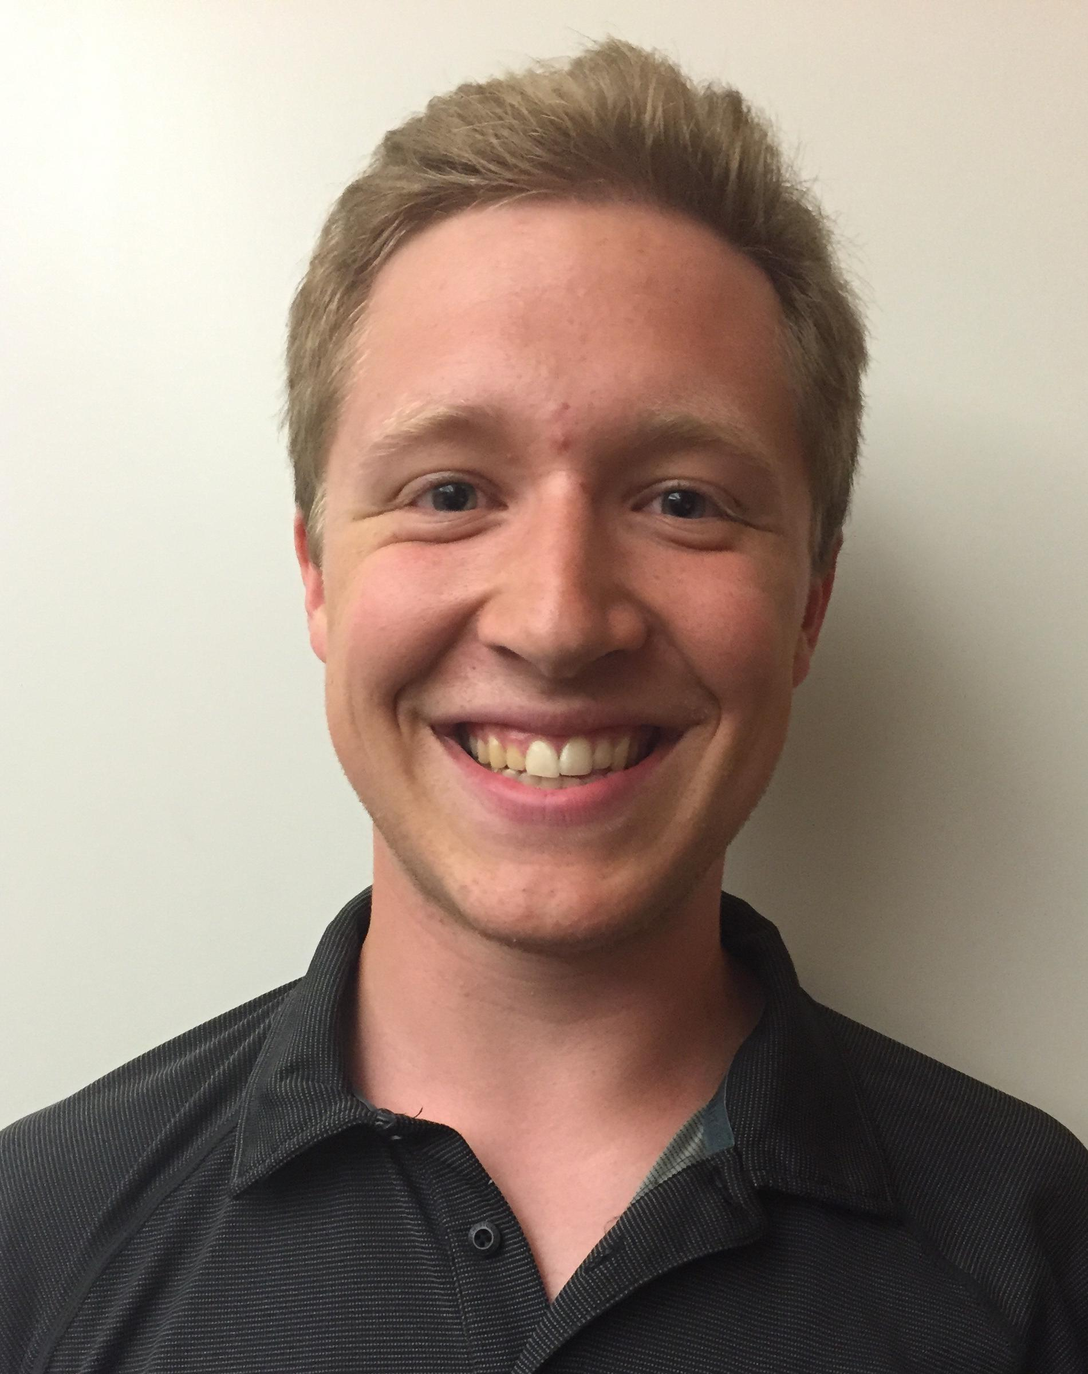
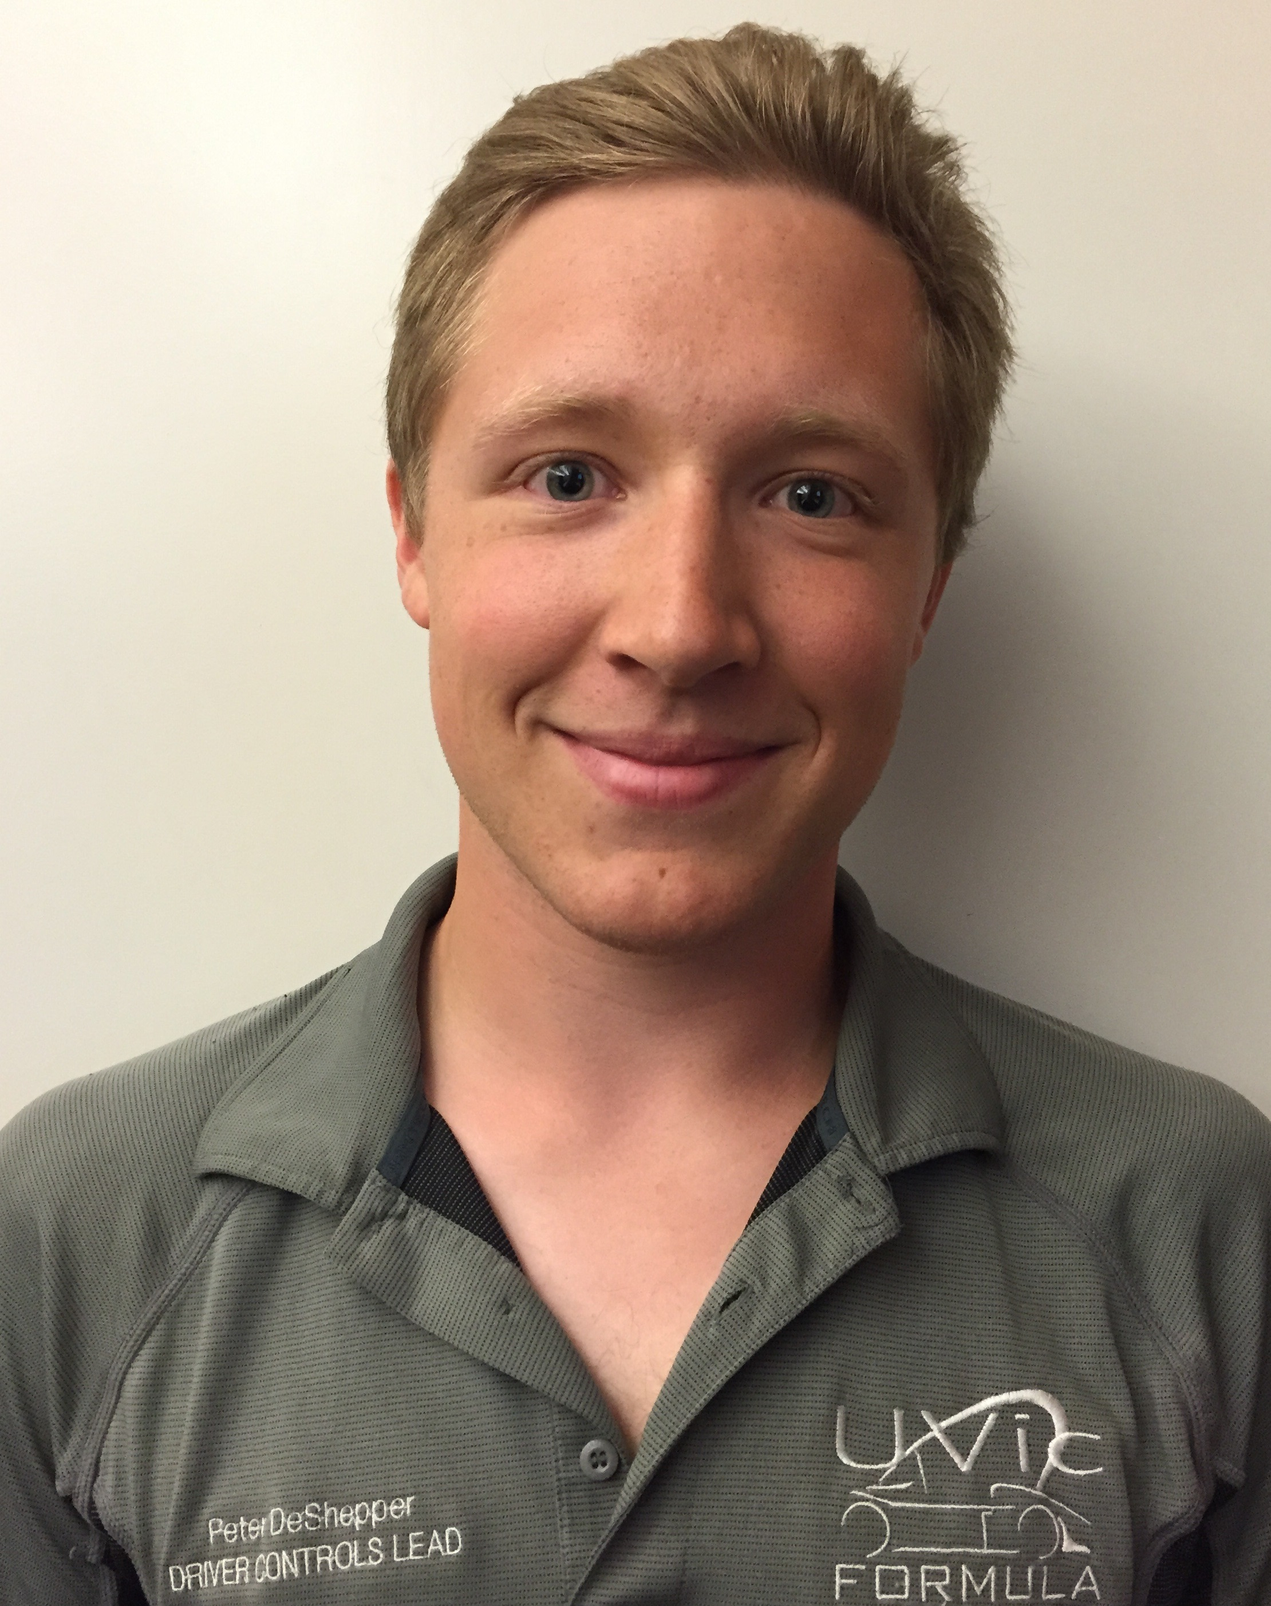
Update pages: Add new peter photo Add render page Add donate button

diff --git a/render/files/KeyShotVR.js b/render/files/KeyShotVR.js
@@ -1,0 +1,33 @@
+var q=!0,s=null,A=!1;
+window.keyshotVR=function(R,u,S,T,ia,C,ja,ka,la,ma,na,H,I,oa,pa,qa,U,ra,sa,ta,V,ua,va){function M(a,e,b){a.removeEventListener?a.removeEventListener(e,b,A):a.detachEvent&&(a.detachEvent("on"+e,a["e"+e+b]),a["e"+e+b]=s)}function m(a,e,b){a.addEventListener?a.addEventListener(e,b,A):a.attachEvent&&(a["e"+e+b]=b,a.attachEvent("on"+e,function(){a["e"+e+b]()}))}function W(){var a=A;-1!=navigator.platform.toString().indexOf("Win")&&-1!=navigator.appVersion.indexOf("MSIE")&&(a=q);return a}function wa(){var a=
+document.getElementById(R),b=a.requestFullScreen||a.webkitRequestFullScreen||a.mozRequestFullScreen||a.msRequestFullScreen;"undefined"!=typeof b&&b&&b.call(a)}function xa(h){a.ja=A;h.pointerId in a.F&&delete a.F[h.pointerId];X(h)}function ya(h){a.ja&&(a.F[h.pointerId]=[h.pageX,h.pageY],Y(h))}function za(h){a.ja=q;a.F[h.pointerId]=[h.pageX,h.pageY];Z(h)}function $(){a.o?(setTimeout(function(){a.t(A)},20),setTimeout(function(){a.t(q)},120)):(setTimeout(function(){a.t(q)},20),setTimeout(function(){a.t(A)},
+120))}function F(){var a={x:0,y:0},b=r;if(b.offsetParent){do a.x+=b.offsetLeft,a.y+=b.offsetTop;while(b=b.offsetParent)}return a}function aa(){var h=c.g;c.g=Math.min(v.width/w.width,v.height/w.height);h!=c.g&&a.Q(a.v()*h/c.g);p.setAttribute("width",w.width);a.o?(p.removeAttribute("height"),p.style[J]="scale("+c.m+")",p.style.width="100%",p.style.height="auto",r.style["background-color"]=""):(p.setAttribute("height",w.height),p.style[J]="translate("+-w.width/2+"px,"+-w.height/2+"px) scale("+c.g+") translate("+
+0.5*v.width/c.g+"px,"+0.5*v.height/c.g+"px) translate("+c.i+"px,"+c.j+"px) scale("+c.m+")",p.style["max-width"]="",p.style.width="",p.style.height="",r.style["background-color"]=a.backgroundColor)}function K(){a.Oa(a.k.offsetWidth,a.k.offsetHeight)}function ba(a,b){l.start.x=a;l.start.y=b;l.a.x=a;l.a.y=b;i.a.x=a;i.a.y=b}function ca(a,b){l.b.x=a-l.a.x;l.b.y=b-l.a.y;l.m.x=a;l.m.y=b;l.a.x=a;l.a.y=b}function E(h){h||(h=window.event);var b=0;h.keyCode?b=h.keyCode:h.which&&(b=h.which);1==b?j.d|=1:1<b&&
+(j.d|=2);a.ta(h);h.preventDefault?h.preventDefault():h.returnValue=A}function G(h){h||(h=window.event);var b=F();a.cursor.x=h.pageX-b.x+k.left;a.cursor.y=h.pageY-b.y+k.top;h.preventDefault?h.preventDefault():h.returnValue=A;0<j.d&&(1==j.d?ca(h.pageX,h.pageY):2==j.d?(h=a.cursor.y-D.start.y,b=a.v(),a.Q(c.s*Math.exp(h/200)),h=a.v(),c.i+=parseFloat(a.e*b-a.e*h),c.j+=parseFloat(a.f*b-a.f*h)):3==j.d&&(b=a.cursor.x-D.start.x,h=a.cursor.y-D.start.y,c.i+=parseFloat((b-c.l.x)/c.g),c.j+=parseFloat((h-c.l.y)/
+c.g),c.l.x=b,c.l.y=h))}function L(h){h||(h=window.event);var b=0;h.keyCode?b=h.keyCode:h.which&&(b=h.which);1==b?j.d&=-2:1<b&&(j.d&=-3);a.ta(h);h.preventDefault?h.preventDefault():h.returnValue=A}function N(b){b||(b=window.event);a.Da(0<(b.detail?-1*b.detail:b.wheelDelta/40)?1:-1);b.preventDefault?b.preventDefault():b.returnValue=A}function Z(b){b||(b=window.event);var e=da(),d=F();a.cursor.x=e[0].pageX-d.x+k.left;a.cursor.y=e[0].pageY-d.y+k.top;if(1==e.length&&e[0])if(j.start.x=e[0].pageX,j.start.y=
+e[0].pageY,j.a.x=e[0].pageX,j.a.y=e[0].pageY,a.na=e[0].target,a.na==a.K)j.d=1,ba(e[0].pageX,e[0].pageY);else for(var f=a.na;f&&f!=a.K;){if(f.onclick)f.onclick();f=f.parentNode}if(2==e.length&&e[0]&&e[1]){j.d=3;j.$.x=e[0].pageX-d.x+k.left;j.$.y=e[0].pageY-d.y+k.top;j.aa.x=e[1].pageX-d.x+k.left;j.aa.y=e[1].pageY-d.y+k.top;var f=e[0].pageX-e[1].pageX,g=e[0].pageY-e[1].pageY,i=(e[0].pageX-d.x+k.left+(e[1].pageX-d.x+k.left))/2,e=(e[0].pageY-d.y+k.top+(e[1].pageY-d.y+k.top))/2;c.ma=A;c.Pa=Math.sqrt(f*f+
+g*g);c.s=a.v();a.e=parseFloat(i-0.5*v.width);a.f=parseFloat(e-0.5*v.height);a.e*=parseFloat(a.O);a.f*=parseFloat(a.O);a.e-=parseFloat(c.i);a.f-=parseFloat(c.j);a.e/=parseFloat(c.s);a.f/=parseFloat(c.s)}b.preventDefault()}function Y(b){b||(b=window.event);var e=da(),d=F();a.cursor.x=e[0].pageX-d.x+k.left;a.cursor.y=e[0].pageY-d.y+k.top;1==e.length&&e[0]&&(j.a.x=e[0].pageX,j.a.y=e[0].pageY,0<=j.d&&ca(j.a.x,j.a.y));if(2==e.length&&e[0]&&e[1]){var f=a.v(),g=e[0].pageX-e[1].pageX,i=e[0].pageY-e[1].pageY;
+a.Q(c.s/c.Pa*Math.sqrt(g*g+i*i));g=a.v();i=a.f*f-a.f*g;c.i+=a.e*f-a.e*g;c.j+=i;f=(a.cursor.x+e[1].pageX-d.x+k.left)/2-(j.$.x+j.aa.x)/2;e=(a.cursor.y+e[1].pageY-d.y+k.top)/2-(j.$.y+j.aa.y)/2;c.ma==A&&(c.l.x=f,c.l.y=e,c.ma=q);c.i+=(f-c.l.x)/c.g;c.j+=(e-c.l.y)/c.g;c.l.x=f;c.l.y=e}b.preventDefault()}function da(){if(!W())return window.event.touches;var b=[];for(id in a.F){var e=a.F[id],d={};d.pageX=e[0];d.pageY=e[1];d.target=a.K;d.preventDefault=function(){};b.push(d)}return b}function X(b){b.preventDefault();
+a.na=s;j.d=0;var e=(new Date).getTime(),d=e-(O||e+1);clearTimeout(P);500>d&&0<d||(O=e,P=setTimeout(function(){clearTimeout(P)},500,[b]));O=e}function Aa(a){a.preventDefault();j.d=0}function Q(){Ba(Q);a.U==a.X&&(1==j.d?0.01<i.J?(i.b.x=0.4*(l.a.x-i.a.x),i.b.y=0.4*(l.a.y-i.a.y),i.a.x+=i.b.x,i.a.y+=i.b.y,a.ia(i.b.x,i.b.y)):(a.ia(l.b.x,l.b.y),l.b.x=0,l.b.y=0):0.01<i.J&&(i.b.x*=i.J,i.b.y*=i.J,0.055>i.b.x*i.b.x+i.b.y*i.b.y&&(i.b.x=0,i.b.y=0,l.b.x=0,l.b.y=0,l.a.x=i.a.x,l.a.y=i.a.y),(0!=i.b.x||0!=i.b.y)&&
+a.ia(i.b.x,i.b.y)));a.ya();var b=0;if(-1==a.ea){for(var e=1,e=0;e<a.r.length;e++){var c=a.B[e];if(0==a.w[c]&&a.r[e].complete&&a.r[e].width==w.width&&a.r[e].height==w.height){a.D[c]=a.w[c];a.w[c]=-1;if(a.U==a.X){var f=a.r.length+a.wa;f>d.q&&(f=d.q);if(f-=b)for(var g=0;g<f;g++)a.da()}d.I=q;0==e&&a.ya()}-1!=a.D[c]&&b++}e=parseFloat(b/d.q);a.Na(e);b==d.q&&(a.ea=0,a.Ma())}}function ea(a){a=a?a:window.event;13==a.keyCode&&($(),a.preventDefault?a.preventDefault():a.returnValue=A)}var B="/",fa=window.location.href,
+ga=fa.lastIndexOf("/");0<=ga&&(B=fa.substr(0,ga+1));this.ja=A;this.F=[];this.ya=function(){if(d.I){d.I=A;var b=parseInt(d.S*d.c+d.R);-1==a.D[b]||ha.setAttribute("src",a.C[b])}if(c.m!=c.a||c.i!=c.ua||c.j!=c.va)c.a=c.m,c.ua=c.i,c.va=c.j,aa()};this.Xa=function(b){for(var e=-1E3,c=b,f=parseFloat(parseInt(b%d.c)),g=parseFloat(parseInt(b/d.c)),f=f/d.c,f=f*2*Math.PI,g=g/d.h,g=g*Math.PI,b=Math.sin(f),f=Math.cos(f),g=Math.cos(g),i=Math.sqrt(b*b+f*f+g*g),b=b/i,f=f/i,g=g/i,i=0;i<a.r.length;i++){var j=a.B[i];
+if(-1!=a.D[j]){var k=a.Aa[j].Ta,k=b*k.x+f*k.y+g*k.Ua;e<k&&(e=k,c=j)}}return c};this.da=function(){if(a.la<d.q){var b=new Image,e=a.B[a.la];a.w[e]=0;b.src=a.C[e];a.r.push(b);var c=parseInt(e%d.c),f=parseInt(e/d.c),c=c/d.c,c=c*2*Math.PI,f=f/d.h,f=f*Math.PI,b=Math.sin(c),c=Math.cos(c),f=Math.cos(f),g=Math.sqrt(b*b+c*c+f*f);a.Aa[e]={Ta:{x:b/g,y:c/g,Ua:f/g}};a.la++}};this.Ca=function(){for(var b=d.oa,e=d.pa,c=2,f=parseFloat(d.c/c),g=parseFloat(d.h/c),i=d.q,j=0,k=0,m=0,n=0,l=0;a.M<i;){var p=parseInt(b%
+d.c),r=parseInt(e%d.h),l=parseInt(r*d.c+p);a.C[l]||(a.B[a.M]=l,a.M++,a.C[l]=a.sa(p,r));0==j&&(b+=f,k++);1==j&&(e+=g,m++);n++;if(n>=c)if(n=0,0==j)j=1,k=0;else if(1==j&&(b+=f,k++,k>=c/2)){c*=2;b=d.oa;e=d.pa;f=parseFloat(d.c/c);g=parseFloat(d.h/c);if(1>f&&1>g){for(b=0;b<i;b++)e=parseInt(b%d.c),c=parseInt(b/d.c),l=parseInt(c*d.c+e),a.C[l]||(a.B[a.M]=l,a.M++,a.C[l]=a.sa(e,c));break}j=m=k=0}}};this.sa=function(b,e){return B+a.u+"/"+parseInt(e)+"_"+parseInt(b)+"."+ta};this.ia=function(b,e){var b=b*(1<d.c?
+a.Ra:0),e=e*(1<d.h?a.Sa:0),c=Math.sqrt(b*b+e*e);if(1E-4<c&&(d.ba+=b,d.ca+=e,d.z+=c,1<d.z)){var c=parseInt(d.z),f=Math.atan2(d.ba,d.ca);d.z-=c;d.ba=0;d.ca=0;0>f&&(f+=2*Math.PI);f+=Math.PI/8;f=parseInt(f/(Math.PI/4));0>f&&(f+=8);f%=8;if(0!=x[f]){var g=d.R,g=g+c*x[f];if(d.za){for(;0>g;)g+=d.c;for(;g>=d.c;)g-=d.c}else g>=d.c&&(g=d.c-1),0>g&&(g=0);d.R!=g&&(d.R=g,d.I=q)}if(0!=y[f]){g=d.S;g+=c*y[f];if(d.Ba){for(;0>g;)g+=d.h;for(;g>=d.h;)g-=d.h}else g>=d.h&&(g=d.h-1),0>g&&(g=0);d.S!=g&&(d.S=g,d.I=q)}}};this.Qa=
+function(){a.t(!a.o);a.o?a.H.setAttribute("src",B+a.u+"/files/GoFullScreenIcon.png"):a.H.setAttribute("src",B+a.u+"/files/GoFixedSizeIcon.png")};this.t=function(b){a.o=b;a.o?(t.style.position="relative",t.style.left="0px",t.style.top="0px",document.body.style.overflow=""):(t.style.position="absolute",b=F(),t.style.left=window.pageXOffset-b.x+k.left+"px",t.style.top=window.pageYOffset-b.y+k.top+"px",document.body.style.overflow="hidden");K()};this.Fa=function(){var b=new Image;b.src=a.L.src;a.r[a.W]=
+b;b=a.B[a.W];a.D[b]=a.w[b];a.w[b]=-1;a.W++;d.I=q;a.W==d.q&&(a.ea=0,a.Ga())};var P,O=s;this.ta=function(b){var e=F();a.cursor.x=b.pageX-e.x+k.left;a.cursor.y=b.pageY-e.y+k.top;1==j.d?ba(b.pageX,b.pageY):2==j.d?(D.start.x=a.cursor.x,D.start.y=a.cursor.y,c.s=a.v(),a.e=a.cursor.x-0.5*v.width,a.f=a.cursor.y-0.5*v.height,a.e*=a.O,a.f*=a.O,a.e-=c.i,a.f-=c.j,a.e/=c.s,a.f/=c.s):3==j.d&&(D.start.x=a.cursor.x,D.start.y=a.cursor.y,c.l.x=0,c.l.y=0)};this.Da=function(b){a.Q(c.m*Math.exp(-b/50))};this.v=function(){return c.m};
+this.Q=function(a){a>c.ga/c.g&&(a=c.ga/c.g);a<c.ha/c.g&&(a=c.ha/c.g);c.m=a};this.Wa=function(a,b,c,d){k.left=a;k.top=b;k.right=c;k.bottom=d;K()};this.Oa=function(b,c){a.o||(b=window.innerWidth,c=window.innerHeight);var d=b-k.left-k.right,f=c-k.top-k.bottom;v.width=d;v.height=f;r.style.width=d+"px";r.style.height=f+"px";r.style.left=k.left+"px";r.style.top=k.top+"px";aa();n.style.width=b+"px";n.style.height=c+"px";n.xa&&n.xa(b,c)};this.T=function(a){m(a,"mousedown",E);m(a,"mousemove",G);m(a,"mouseup",
+L)};this.Z=function(a){M(a,"mousedown",E);M(a,"mousemove",G);M(a,"mouseup",L)};this.Ma=function(){a.p&&(a.p.style.visibility="hidden",a.Z(a.p),a.Z(a.N),a.Z(a.n))};this.Ga=function(){a.A.style.visibility="hidden";a.Z(a.A)};var Ba=window.requestAnimationFrame||window.webkitRequestAnimationFrame||window.mozRequestAnimationFrame||window.oRequestAnimationFrame||window.msRequestAnimationFrame||function(a){window.setTimeout(a,10)};this.ra=function(){a.p=document.createElement("div");a.T(a.p);a.p.V=function(){this.parentNode&&
+(this.style.left="16px",this.style.top="16px")};b="position:absolute;";b+="left: 0px;";b+="top:  0px;";b+="width: 80px;";b+="height: 80px;";b+=z+"transform-origin: 50% 50%;";b+="visibility: inherit;";a.p.setAttribute("style",b);a.N=document.createElement("div");a.T(a.N);b="position:absolute;";b+="left: 0px;";b+="top:  29px;";b+="width: 80px;";b+="height: 80px;";b+=z+"transform-origin: 50% 50%;";b+="opacity: 1.0;";b+="visibility: inherit;";b+="border: 0px solid #000000;";b+="color: #ffffff;";b+="text-align: left;";
+b+="white-space: nowrap;";b+="padding: 0px 0px 0px 0px;";b+="overflow: hidden;";a.N.setAttribute("style",b);a.n=document.createElement("div");a.T(a.n);a.n.Y={Ia:0,Ja:0,fa:0,Ka:1,La:1,Za:1};b="position:absolute;";b+="left: 0px;";b+="top:  0px;";b+="width: 80px;";b+="height: 80px;";b+=z+"transform-origin: 50% 50%;";b+="opacity: 1.0;";b+="visibility: inherit;";b+="border: 0px solid #000000;";b+="color: #ffffff;";b+="text-align: left;";b+="white-space: nowrap;";b+="padding: 0px 0px 0px 0px;";b+="overflow: hidden;";
+var c=ua;""==c&&(c="ks_logo.png");a.n.setAttribute("style",b);a.n.innerHTML='<img src="'+B+a.u+"/files/"+c+'"></img>';a.p.appendChild(a.n);a.p.appendChild(a.N);n.appendChild(a.p);a.t(a.o);setTimeout(function(){a.t(a.o)},10)};this.Na=function(b){if(a.p){a.N.innerHTML="<center>"+parseInt(100*b)+"</center>";a.n.Y.fa+=2.1;b="";if(a.n.Y)var c=a.n.Y,b=b+("translate("+c.Ia+"px,"+c.Ja+"px) rotate("+c.fa+"deg) scale("+c.Ka+","+c.La+") ");a.n.style[J]=b+"scale(1.0,1.0)"}};this.qa=function(){m(window,"resize",
+K);va&&m(n,"dblclick",wa);if(W())if(m(window,"mousewheel",N),m(window,"keydown",ea),/Tablet PC/i.test(navigator.userAgent)&&window.Va){var b=new MSGesture;b.target=a.k;a.k.Ea=b;a.k.Ea.pointerType=s;a.k.$a=[];m(a.k,"MSPointerDown",za);m(a.k,"MSPointerMove",ya);m(a.k,"MSPointerUp",xa)}else m(n,"mousedown",E),m(p,"mousedown",E),m(n,"mousemove",G),m(p,"mousemove",G),m(document,"mouseup",L);else n.addEventListener&&(m(document,"mouseup",L),m(n,"mousewheel",N),m(document,"keydown",ea),m(n,"mousedown",E),
+m(p,"mousedown",E),m(n,"mousemove",G),m(n,"touchstart",Z),m(n,"touchmove",Y),m(n,"touchcancel",Aa),m(n,"touchend",X),m(n,"DOMMouseScroll",N),m(window,"orientationchange",$));Q()};if(document.createElement("canvas").getContext){var a=this,t=a.k=s,r=s,ha=s,n=s,p=s;a.o=U;a.u=u;a.Ya=A;a.X=A;a.U=sa;a.ab=0;a.M=0;a.Ra=parseFloat(ma);a.Sa=parseFloat(na);a.wa=1;a.W=0;a.ea=-1;var k={left:0,top:0,right:0,bottom:0},d={R:0,S:0,c:1,h:1,oa:0,pa:0,z:0,ba:0,ca:0,I:A,q:0,za:q,Ba:A};H||(H=0);I||(I=0);d.oa=H;d.pa=I;
+d.R=H;d.S=I;d.c=C;d.h=ja;d.za=ka;d.Ba=la;d.q=d.c*d.h;var w={width:0,height:0};w.width=S;w.height=T;var z="",J="transform",v={x:640,y:480},c={m:1,s:1,a:-1,i:0,j:0,ua:-1,va:-1,g:1,ha:1,ga:1,l:{x:0,y:0},ma:A};c.ha=parseFloat(oa);c.ga=parseFloat(pa);var l={start:{x:0,y:0},a:{x:0,y:0},Ha:{x:0,y:0},m:{x:0,y:0},b:{x:0,y:0}},D={start:{x:0,y:0}},j={d:0,start:{x:0,y:0},a:{x:0,y:0},Ha:{x:0,y:0},m:{x:0,y:0},b:{x:0,y:0},$:{x:0,y:0},aa:{x:0,y:0}},i={a:{x:0,y:0},b:{x:0,y:0},J:0.96};i.J=qa;a.cursor={x:0,y:0};var x=
+[],y=[];x[0]=0;y[0]=1;x[1]=1;y[1]=1;x[2]=1;y[2]=0;x[3]=1;y[3]=-1;x[4]=0;y[4]=-1;x[5]=-1;y[5]=-1;x[6]=-1;y[6]=0;x[7]=-1;y[7]=1;a.e=0;a.f=0;a.la=0;a.r=[];a.B=[];a.w=[];a.D=[];a.Aa=[];for(u=0;u<d.q;u++)a.w[u]=-1,a.D[u]=-1;a.C=[];u=["Webkit","Moz","0","ms","Ms"];for(C=0;C<u.length;C++)"undefined"!=typeof document.documentElement.style[u[C]+"Transform"]&&(z="-"+u[C].toLowerCase()+"-",J=u[C]+"Transform");var b="";a.k=document.getElementById(R);b="width: "+S+"px;";b+="height: "+T+"px;";b+="max-width: 100%;";
+a.k.setAttribute("style",b);t=document.createElement("div");t.setAttribute("id","viewwindow");b="top:  0px;";b+="left: 0px;";b+="position: relative;";t.setAttribute("style",b);a.k.appendChild(t);r=document.createElement("div");r.setAttribute("id","turntable");b="top:  0px;";b+="left: 0px;";b+="overflow: hidden;";b+="position:absolute;";b+=z+"user-select: none;";r.setAttribute("style",b);t.appendChild(r);p=document.createElement("img");p.setAttribute("id","backbuffer");b="top:  0px;";b+="left: 0px;";
+b+="position:absolute;";b+=z+"user-select: none;";p.setAttribute("style",b);r.appendChild(p);ha=p;n=document.createElement("div");a.K=n;b="top:  0px;";b+="left: 0px;";b+="width:  100px;";b+="height: 100px;";b+="overflow: hidden;";b+="position:absolute;";b+="z-index: 522;";b+=z+"user-select: none;";n.setAttribute("style",b);t.appendChild(n);n.xa=function(a,b){var c=[];for(c.push(this);0<c.length;){var d=c.pop();d.V&&d.V(a,b);if(d.hasChildNodes())for(var g=0;g<d.childNodes.length;g++)c.push(d.childNodes[g])}};
+this.A=document.createElement("div");b="position:absolute;";b+="left: 0px;";b+="top:  0px;";b+="width: 256px;";b+="height: 256px;";b+="opacity: 0.0;";b+=z+"transform-origin: 50% 50%;";b+="visibility: inherit;";this.A.setAttribute("style",b);this.L=document.createElement("img");this.L.setAttribute("width",256);this.L.setAttribute("height",256);this.L.onload=function(){a.Fa()};a.T(this.A);this.A.appendChild(this.L);n.appendChild(this.A);this.backgroundColor=r.style.backgroundColor=ia;ra&&(a.P=document.createElement("div"),
+b="position:absolute;",b+="width: 38px;",b+="height: 32px;",b+=z+"transform-origin: 50% 50%;",b+="visibility: inherit;",b+="cursor: pointer;",a.P.setAttribute("style",b),a.H=document.createElement("img"),a.o?a.H.setAttribute("src",B+a.u+"/files/GoFullScreenIcon.png"):a.H.setAttribute("src",B+a.u+"/files/GoFixedSizeIcon.png"),a.H.setAttribute("style","position: absolute;top: 0px;left: 0px;width: 38px;height: 32px;"),a.P.appendChild(a.H),a.P.V=function(a,b){this.style.left=a-38+"px";this.style.top=
+b-32+"px"},a.P.onclick=function(){a.Qa()},a.K.appendChild(a.P));a.U?(a.G=document.createElement("div"),b="position:absolute;",b+="width: 92px;",b+="height: 92px;",b+=z+"transform-origin: 50% 50%;",b+="visibility: inherit;",b+="cursor: pointer;",a.G.setAttribute("style",b),a.ka=document.createElement("img"),a.ka.setAttribute("src",B+a.u+"/files/play_arrow.png"),a.ka.setAttribute("style","position: absolute;top: 0px;left: 0px;width: 92px;height: 92px;"),a.G.appendChild(a.ka),a.G.V=function(a,b){this.style.left=
+0.5*a-46+"px";this.style.top=0.5*b-46+"px"},a.G.onclick=function(){a.G.style.visibility="hidden";V&&a.ra();a.X=q;for(var b=0;b<a.wa;b++)a.da();a.qa()},a.K.appendChild(a.G)):(a.U=q,a.X=q,V&&a.ra(),a.qa());a.t(U);a.O=1/c.g;a.Q(a.O);this.Ca();a.da();setTimeout(function(){Q()},10);setTimeout(function(){K()},15)}else alert("Your browser must support HTML5 to show KeyShotVR")};

diff --git a/render.html b/render.html
@@ -1,0 +1,107 @@
+<!DOCTYPE HTML>
+
+<html>
+	<head>
+		<title>UVic FSAE -- The Car</title>
+		<meta http-equiv="content-type" content="text/html; charset=utf-8" />
+		<meta name="description" content="" />
+		<meta name="keywords" content="" />
+		<!--[if lte IE 8]><script src="css/ie/html5shiv.js"></script><![endif]-->
+		<script src="js/jquery.min.js"></script>
+		<script src="js/jquery.dropotron.min.js"></script>
+		<script src="js/skel.min.js"></script>
+		<script src="js/skel-layers.min.js"></script>
+		<script src="js/init.js"></script>
+		<noscript>
+			<link rel="stylesheet" href="css/skel.css" />
+			<link rel="stylesheet" href="css/style.css" />
+			<link rel="stylesheet" href="css/style-desktop.css" />
+		</noscript>
+		<!--[if lte IE 8]><link rel="stylesheet" href="css/ie/v8.css" /><![endif]-->
+	</head>
+	<body class="homepage">
+
+		<!-- Header -->
+			<div id="header-wrapper">
+				<header id="header" class="container">
+				
+					<!-- Logo -->
+						<div id="logo">
+							<img src="images/logo2.png" alt="UVic FSAE Formula Motorsports"/>
+					<!--	<h1><a href="index.html">UVic FSAE</a></h1>
+							<span>FSAE</span>	-->
+						</div>
+					
+					<!-- Nav -->
+						<nav id="nav">
+							<ul>
+								<li><a href="index.html">Home</a></li>
+								<li>
+									<a href="about.html">About Us</a>
+									<ul>
+										<li><a href="thecar.html">The Car</a></li>
+										<li><a href="theteam.html">The Team</a></li>
+										<li><a href="https://www.flickr.com/photos/uvicfsae/">Gallery</a></li>
+									</ul>
+								</li>
+								<li><a href="sponsorship.html">Sponsorship</a></li>
+								<li><a href="contact.html">Contact Us</a></li>
+							</ul>
+						</nav>
+					
+				</header>
+			</div>
+		
+		<!-- Main -->
+			<div id="main-wrapper">
+				<div class="container">
+					<div class="row">
+						<div class="12u image fit">
+							<iframe src="render/UV15 - Final - Aug8_VR.11.html" width="1280" height="720" frameborder="0">iframe not supported by your browser</iframe>
+						</div>
+						
+						
+						
+						<div id="main-wrapper">
+							<div class="container">
+								<div class="row">
+									<div class="4u">
+									
+										<!-- Sidebar -->
+											<div id="sidebar">
+												<section class="widget thumbnails">
+													<h3>2015 Car:</h3>
+													<div class="grid">
+														<div class="row no-collapse 50%">
+															<div class="12u"><a href="#" class="image fit"><img src="images/car2015.jpg" alt="UV15" /></a></div>
+															<!--<div class="6u"><a href="#" class="image fit"><img src="images/pic05.jpg" alt="" /></a></div>-->
+														</div>
+													</div>
+												</section>
+											</div>
+									
+									</div>
+									<div class="8u important(collapse)">
+			
+										<!-- Content -->
+										<div id="content">
+											<section class="last">
+												
+												<p>The <strong>UVic Formula Motorsports Team</strong> is a student run design and building competition to make the best car to enter into the <a href="http://students.sae.org/cds/formulaseries/fsae/">Student Formula SAE Competition</a>.</p>
+												<p>We are pleased that you're interested in the team, as we are always looking to increase our exposure and obtain new sponsorship opportunitites.  If you're interested in possibly sponsoring our team, please contact us for a full information package.</p>
+												<a href="documents/UV16_Spon_Pak.pdf" download class="button icon fa-file-pdf-o">Sponsorship Package Brochure</a>
+												&nbsp;&nbsp;<a href="Mailto:fsaeadmn@uvic.ca" download class="button icon fa-bullhorn">Contact Us</a>
+											</section>
+										</div>
+									</div>
+								</div>
+							</div>
+						</div>
+						
+						
+						
+					</div>
+				</div>
+			</div>
+	</body>
+</html>

diff --git a/render/UV15 - Final - Aug8_VR.11.html b/render/UV15 - Final - Aug8_VR.11.html
@@ -1,0 +1,53 @@
+<!--
+  KeyShot VR
+  (c) Copyright 2012-2013 Luxion ApS - All Rights Reserved.
+-->
+
+<!DOCTYPE html>
+<html xmlns='http://www.w3.org/1999/xhtml'>
+  <head>
+    <meta http-equiv="X-UA-Compatible" content="IE=Edge"/>
+    <meta http-equiv="Content-Type" content="text/html; charset=utf-8"/>
+    <title>KeyShotVR</title>
+    <style type="text/css">
+      body { -ms-touch-action: none; }
+    </style>
+    <script type="text/javascript" src="files/KeyShotVR.js"></script>
+    <script type="text/javascript">
+      var keyshotVR;
+
+      function initKeyShotVR() {
+        var nameOfDiv = "FSAE";
+        var folderName = "";
+        var imageWidth = 1280;
+        var imageHeight = 720;
+        var backgroundColor = "#FFFFFF";
+        var uCount = 36;
+        var vCount = 1;
+        var uWrap = true;
+        var vWrap = false;
+        var uMouseSensitivity = -0.100000;
+        var vMouseSensitivity = 1.000000;
+        var uStartIndex = 18;
+        var vStartIndex = 0;
+        var minZoom = 1.000000;
+        var maxZoom = 1.000000;
+        var rotationDamping = 0.960000;
+        var downScaleToBrowser = false;
+        var addDownScaleGUIButton = true;
+        var addPlayGUIButton = true;
+        var imageExtension = "png";
+        var showLoading = true;
+        var loadingIcon = "wheel2.png"; // Set to empty string for default icon.
+        var allowFullscreen = true; // Double-click in desktop browsers for fullscreen.
+
+        keyshotVR = new keyshotVR(nameOfDiv,folderName,imageWidth,imageHeight,backgroundColor,uCount,vCount,uWrap,vWrap,uMouseSensitivity,vMouseSensitivity,uStartIndex,vStartIndex,minZoom,maxZoom,rotationDamping,downScaleToBrowser,addDownScaleGUIButton,addPlayGUIButton,imageExtension,showLoading,loadingIcon,allowFullscreen);
+      }
+
+      window.onload = initKeyShotVR;
+    </script>
+  </head>
+  <body oncontextmenu="return false;">
+    <div id="FSAE"></div> 
+  </body>
+</html>

diff --git a/thecar.html b/thecar.html
@@ -58,9 +58,10 @@
 					<div class="row">
 						<div class="12u image fit">
 							<h2>About Our Car</h2>
-							<img src="images/car2015-banner.jpg" />
+							<a href="render.html"><img src="images/car2015-banner.jpg" /></a>
 						</div>
 					</div>
+					
 					<div class="row">
 						<div class="4u">
 						
@@ -68,6 +69,7 @@
 								<div id="sidebar">
 									<section class="widget thumbnails">
 										<h3>2015 Car:</h3>
+										<a href="render.html" class="button alt icon">View a render of UV15!&nbsp;&nbsp;&nbsp;&nbsp;&nbsp;</a>
 										<div class="grid">
 											<div class="row no-collapse 50%">
 												<div class="12u"><a class="image fit"><img src="images/car2015.jpg" alt="UV15" /></a></div>

diff --git a/index.html b/index.html
@@ -86,7 +86,7 @@
 						
 						<div class="5u">
 							<ul>
-								<li><a href="theteam.html" class="button big icon fa-tachometer">Meet our team</a></li>
+								<li><a href="https://extrweb.uvic.ca/donation-forms/faculty-of-engineering" class="button big icon fa-tachometer">Donate!</a></li>
 								<li><a href="https://www.flickr.com/photos/uvicfsae/albums" class="button alt big icon fa-camera-retro">Photo gallery</a></li>
 								<br>
 								<div class="row">
